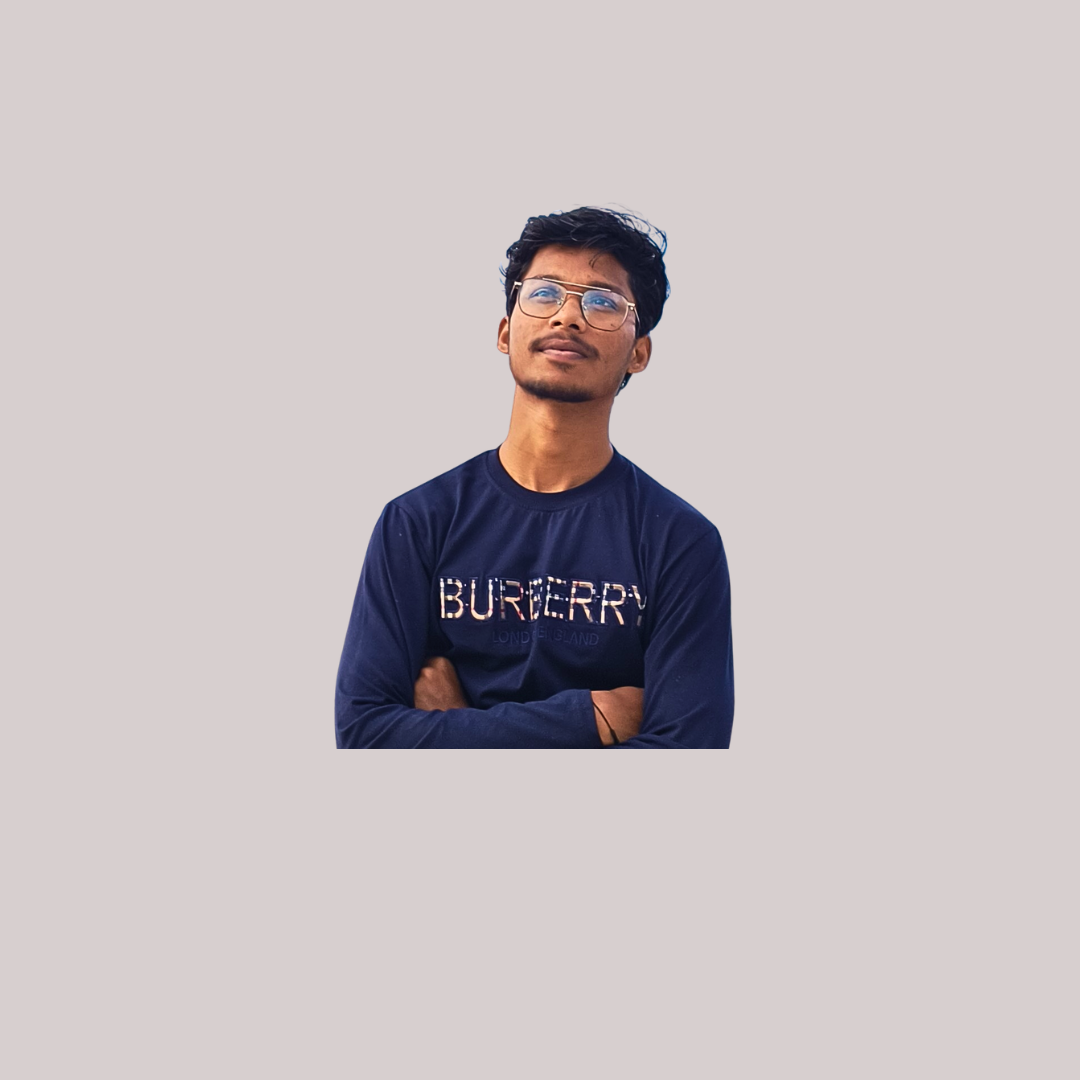
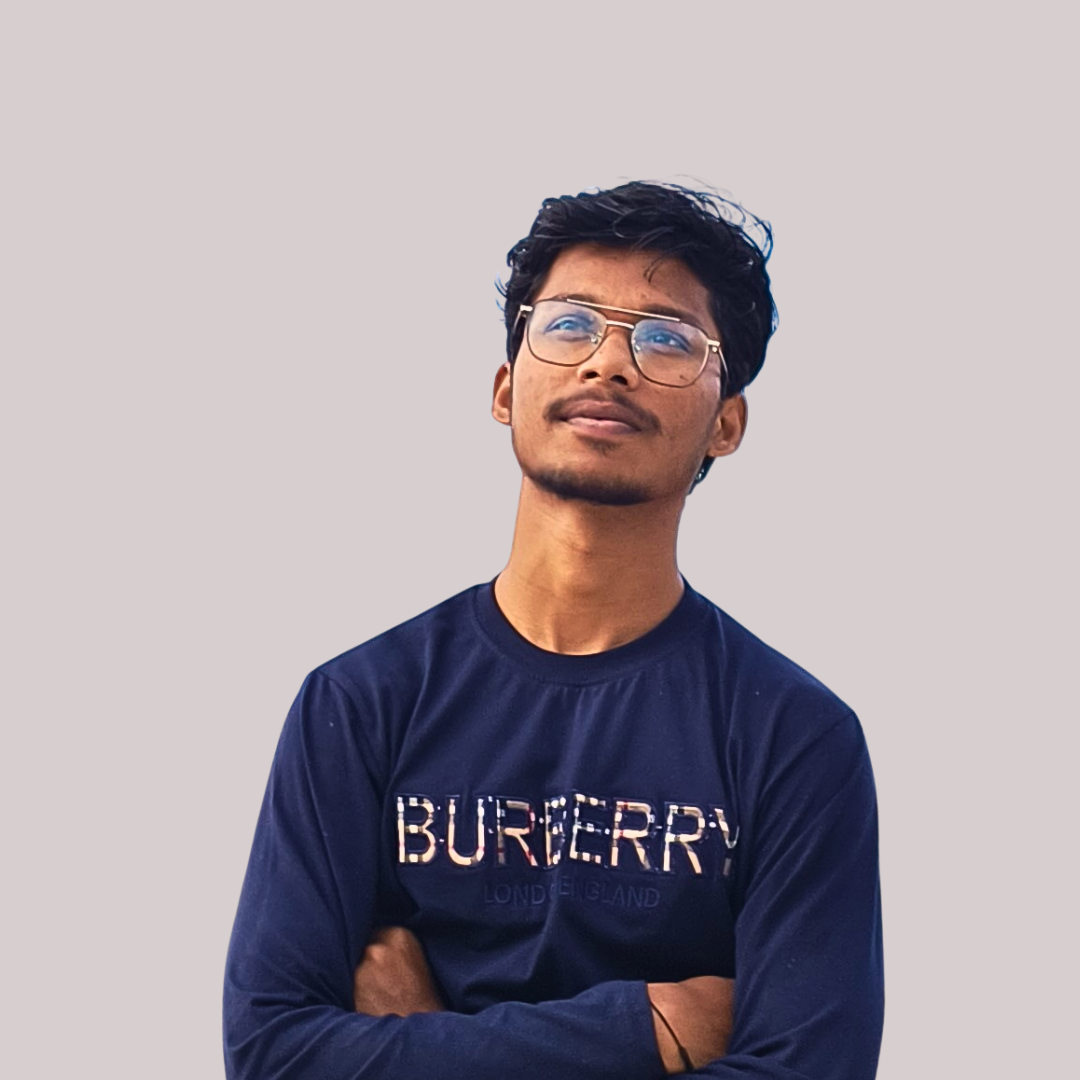
image

diff --git a/index.html b/index.html
@@ -13,7 +13,7 @@
             <!-- Header Section -->
             <div class="bg-gray-800 text-white p-6 flex items-center gap-6">
                 <img 
-                    src="https://images.unsplash.com/photo-1472099645785-5658abf4ff4e?auto=format&fit=crop&q=80&w=200&h=200" 
+                    src="./Profile/MyProfile.png" 
                     alt="Profile Photo" 
                     class="w-32 h-32 rounded-full border-4 border-white object-cover"
                 >
